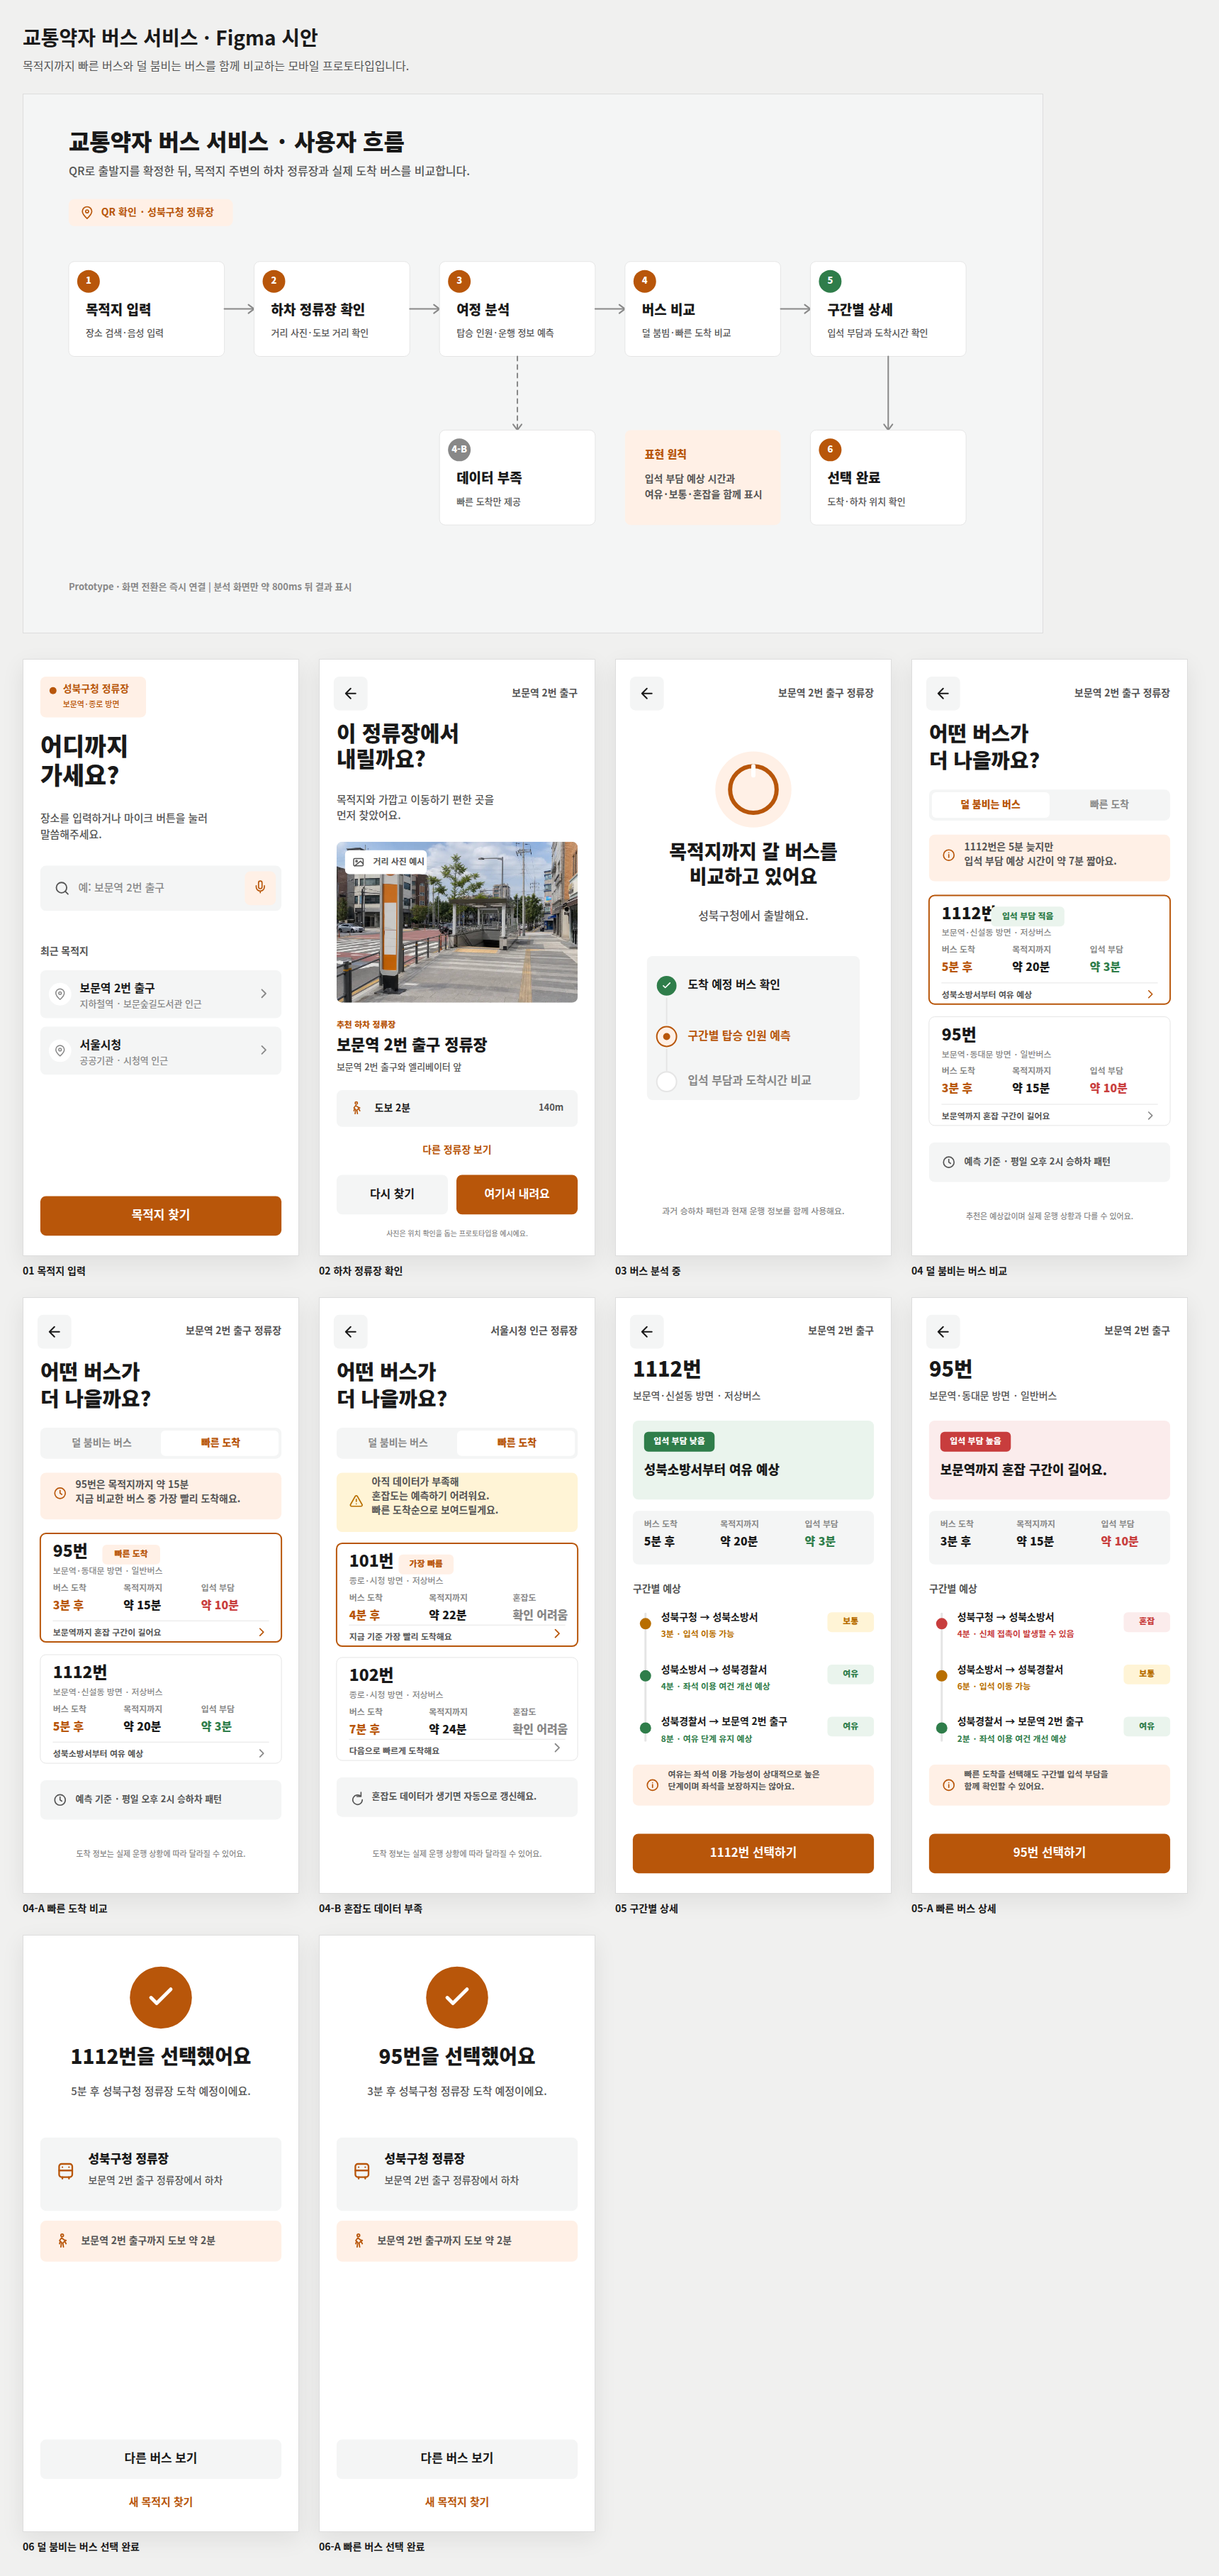
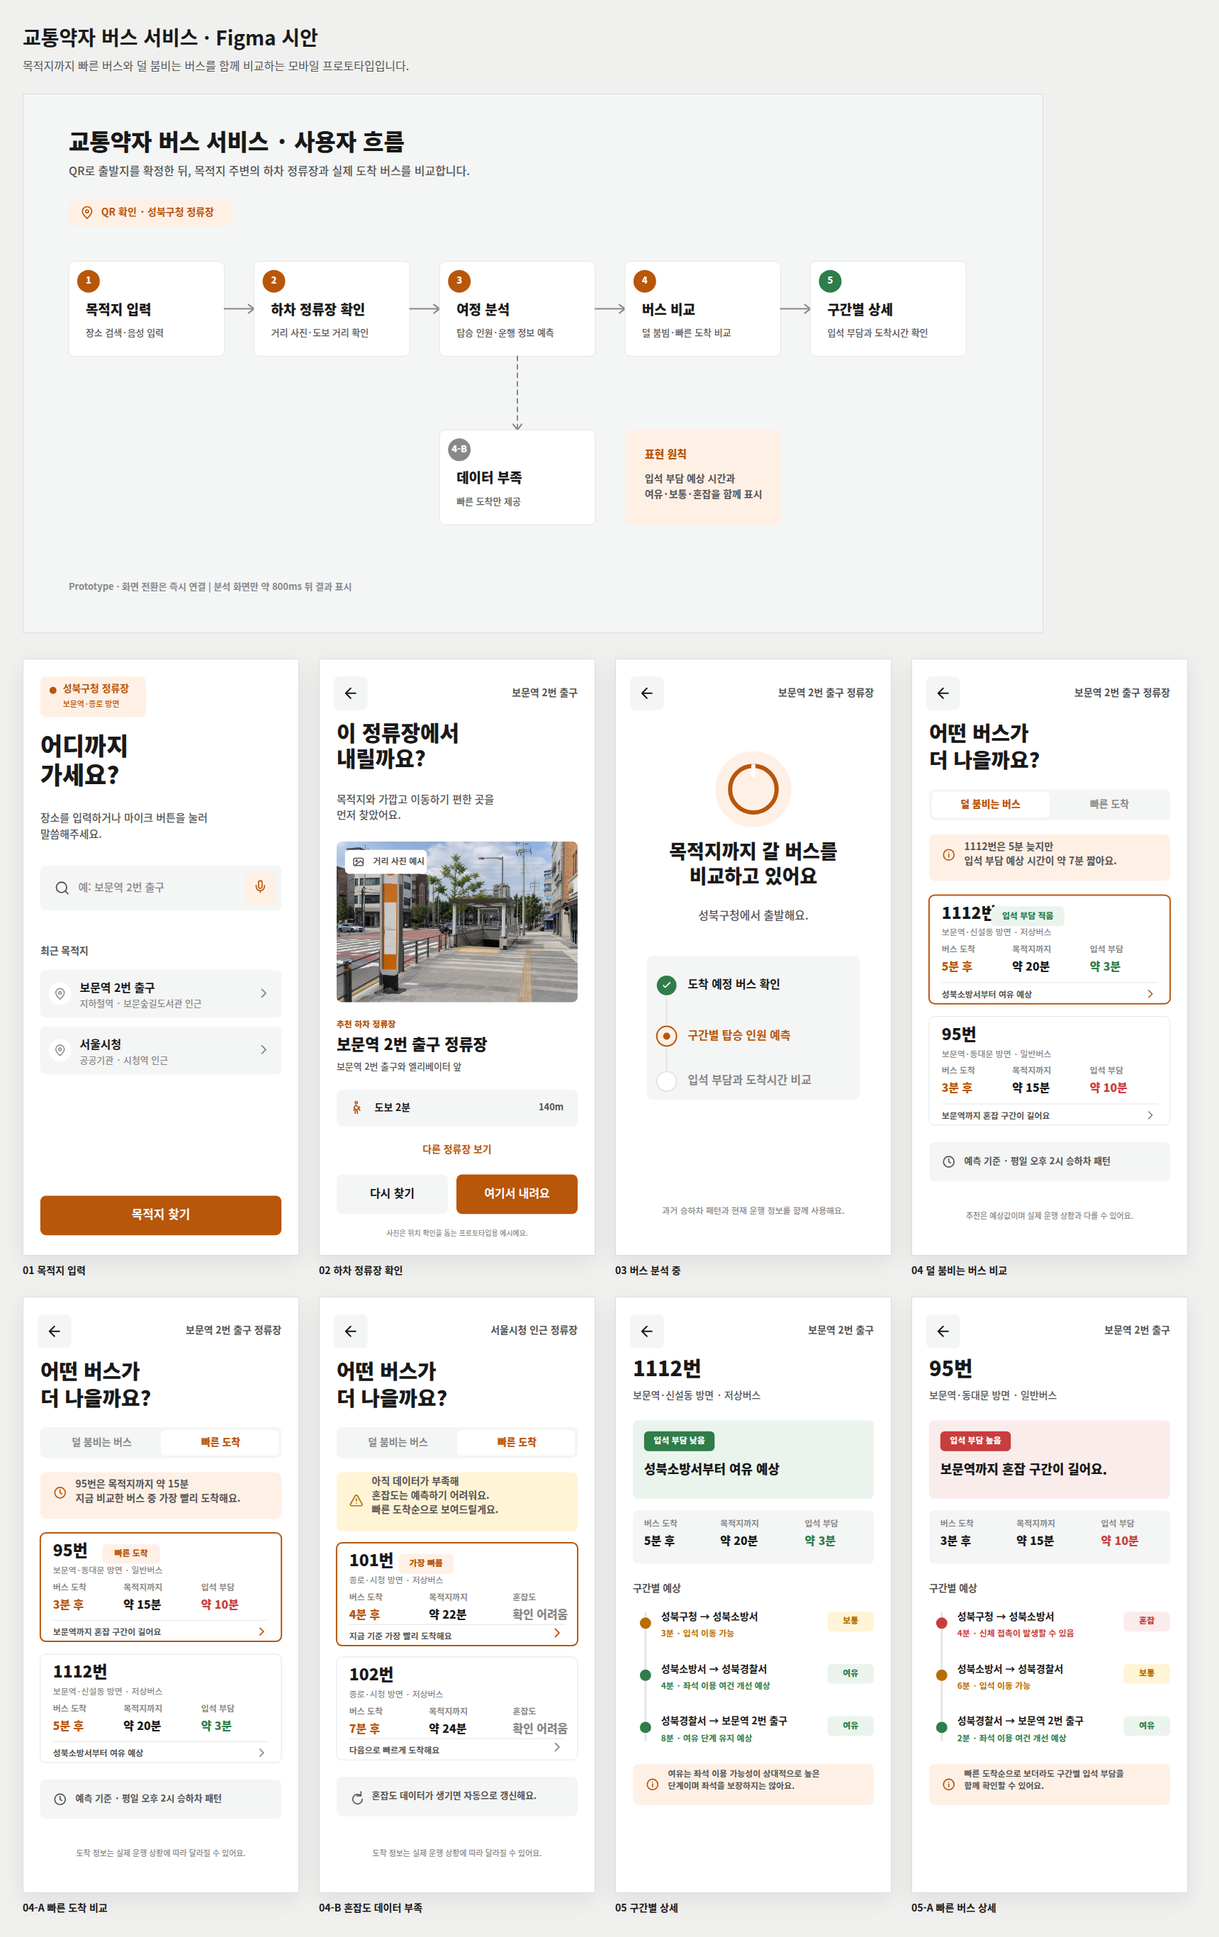
fix: remove redundant bus confirmation step

diff --git a/src/App.jsx b/src/App.jsx
@@ -2,7 +2,6 @@ import { useEffect, useMemo, useRef, useState } from "react";
 import {
   AlertTriangle,
   ArrowLeft,
-  BusFront,
   Check,
   ChevronRight,
   Circle,
@@ -468,7 +467,7 @@ function CompareScreen({ destination, selectedCandidate, mode, onModeChange, onB
   );
 }
 
-function DetailScreen({ currentStop, destination, selectedCandidate, route, onBack, onSelect }) {
+function DetailScreen({ destination, selectedCandidate, route, onBack }) {
   const predictionAvailable = destination.hasPrediction && route.segments;
   const bannerTone = predictionAvailable ? route.tone : "fast";
   const total = getTotalMinutes(route);
@@ -519,34 +518,6 @@ function DetailScreen({ currentStop, destination, selectedCandidate, route, onBa
         </InfoBand>
       )}
 
-      <div className="screen-bottom detail-bottom">
-        <button className="primary-button" type="button" onClick={onSelect}>{route.routeNumber} 선택하기</button>
-        <p className="fine-print">하차 정류장 · {selectedCandidate.stopName}</p>
-      </div>
-    </main>
-  );
-}
-
-function SelectedScreen({ currentStop, destination, selectedCandidate, route, onChangeBus, onNewDestination }) {
-  return (
-    <main className="screen screen--selected" aria-labelledby="selected-title">
-      <div className="selected-icon"><Check aria-hidden="true" /></div>
-      <section>
-        <h1 id="selected-title">{route.routeNumber}을 선택했어요</h1>
-        <p>{route.arrivalMinutes}분 후 {currentStop.stopName} 도착 예정이에요.</p>
-      </section>
-      <div className="selected-route">
-        <BusFront aria-hidden="true" />
-        <div><strong>{currentStop.stopName}</strong><span>{selectedCandidate.stopName}에서 하차</span></div>
-      </div>
-      <div className="selected-walk">
-        <Footprints aria-hidden="true" />
-        <span><strong>{destination.displayName}</strong>까지 도보 약 {selectedCandidate.walkMinutes}분</span>
-      </div>
-      <div className="screen-bottom selected-actions">
-        <button className="secondary-button secondary-button--full" type="button" onClick={onChangeBus}>다른 버스 보기</button>
-        <button className="text-button" type="button" onClick={onNewDestination}>새 목적지 찾기</button>
-      </div>
     </main>
   );
 }
@@ -663,14 +634,6 @@ export default function App() {
     setScreen("alighting");
   };
 
-  const resetJourney = () => {
-    setDestination(null);
-    setSelectedCandidateId(null);
-    setSelectedTripId(null);
-    setCompareMode("comfort");
-    setScreen("destination");
-  };
-
   if (screen === "loading" || screen === "error") {
     return (
       <div className="app-shell">
@@ -717,22 +680,10 @@ export default function App() {
         )}
         {screen === "detail" && currentStop && destination && selectedCandidate && selectedRoute && (
           <DetailScreen
-            currentStop={currentStop}
             destination={destination}
             selectedCandidate={selectedCandidate}
             route={selectedRoute}
             onBack={() => setScreen("compare")}
-            onSelect={() => setScreen("selected")}
-          />
-        )}
-        {screen === "selected" && currentStop && destination && selectedCandidate && selectedRoute && (
-          <SelectedScreen
-            currentStop={currentStop}
-            destination={destination}
-            selectedCandidate={selectedCandidate}
-            route={selectedRoute}
-            onChangeBus={() => setScreen("compare")}
-            onNewDestination={resetJourney}
           />
         )}
       </div>

diff --git a/src/styles.css b/src/styles.css
@@ -178,8 +178,7 @@ input:focus-visible {
 }
 
 .screen-heading h1,
-.analysis-heading h1,
-.screen--selected h1 {
+.analysis-heading h1 {
   margin: 0;
   font-size: 34px;
   line-height: 1.2;
@@ -192,8 +191,7 @@ input:focus-visible {
 }
 
 .screen-heading p,
-.analysis-heading p,
-.screen--selected section > p {
+.analysis-heading p {
   margin: 18px 0 0;
   color: #555555;
   font-size: 16px;
@@ -343,8 +341,7 @@ input:focus-visible {
   padding-top: 28px;
 }
 
-.destination-bottom,
-.selected-actions {
+.destination-bottom {
   display: grid;
   gap: 10px;
 }
@@ -1050,82 +1047,6 @@ input:focus-visible {
   margin-top: 18px;
 }
 
-.detail-bottom {
-  padding-top: 22px;
-}
-
-.screen--selected {
-  align-items: center;
-  padding-top: max(58px, env(safe-area-inset-top, 0px));
-  text-align: center;
-}
-
-.selected-icon {
-  width: 88px;
-  height: 88px;
-  border-radius: 50%;
-  display: flex;
-  align-items: center;
-  justify-content: center;
-  color: #ffffff;
-  background: #b8560a;
-}
-
-.selected-icon svg {
-  width: 46px;
-  height: 46px;
-}
-
-.screen--selected section {
-  margin-top: 30px;
-}
-
-.screen--selected h1 {
-  font-size: 28px;
-}
-
-.selected-route,
-.selected-walk {
-  width: 100%;
-  border-radius: 8px;
-  display: flex;
-  align-items: center;
-  gap: 16px;
-  text-align: left;
-}
-
-.selected-route {
-  margin-top: 36px;
-  padding: 18px;
-  background: #f2f3f3;
-}
-
-.selected-walk {
-  margin-top: 10px;
-  padding: 14px 18px;
-  color: #555555;
-  background: #fff0e6;
-  font-size: 14px;
-}
-
-.selected-route > svg,
-.selected-walk > svg {
-  width: 28px;
-  flex: 0 0 28px;
-  color: #b8560a;
-}
-
-.selected-route div {
-  min-width: 0;
-  display: grid;
-  gap: 5px;
-}
-
-.selected-route span {
-  color: #666666;
-  font-size: 13px;
-}
-
 @media (max-width: 460px) {
   .phone-frame {
     max-width: none;
@@ -1141,10 +1062,6 @@ input:focus-visible {
   .screen-heading h1,
   .analysis-heading h1 {
     font-size: 30px;
-  }
-
-  .screen--selected {
-    padding-top: max(46px, env(safe-area-inset-top, 0px));
   }
 
   .bus-option {
@@ -1173,8 +1090,7 @@ input:focus-visible {
   }
 
   .screen-heading h1,
-  .analysis-heading h1,
-  .screen--selected h1 {
+  .analysis-heading h1 {
     font-size: 27px;
   }
 

diff --git a/design/figma-import/index.html b/design/figma-import/index.html
@@ -52,14 +52,6 @@
   <figure>
     <img src="./05-detail-fast.svg" alt="05-A 빠른 버스 상세">
     <figcaption>05-A 빠른 버스 상세</figcaption>
-  </figure>
-  <figure>
-    <img src="./06-selected-comfort.svg" alt="06 덜 붐비는 버스 선택 완료">
-    <figcaption>06 덜 붐비는 버스 선택 완료</figcaption>
-  </figure>
-  <figure>
-    <img src="./06-selected-fast.svg" alt="06-A 빠른 버스 선택 완료">
-    <figcaption>06-A 빠른 버스 선택 완료</figcaption>
   </figure></main>
 </body>
 </html>

diff --git a/design/figma-import/README.md b/design/figma-import/README.md
@@ -15,8 +15,6 @@
 | `04-compare-unavailable.svg` | 혼잡도 데이터가 부족한 경우 |
 | `05-detail.svg` | 1112번의 구간별 예상 |
 | `05-detail-fast.svg` | 95번의 구간별 예상 |
-| `06-selected-comfort.svg` | 1112번 선택 완료 |
-| `06-selected-fast.svg` | 95번 선택 완료 |
 
 `index.html`은 모든 화면을 한 페이지에서 확인하는 용도입니다. `contact-sheet.png`는 회의 자료나 Discord 공유에 쓰기 편하도록 한 장으로 정리한 이미지입니다.
 
@@ -41,21 +39,16 @@
 04-compare
   빠른 도착 → 04-compare-fast
   1112번 → 05-detail
-05-detail
-  1112번 선택하기 → 06-selected-comfort
+05-detail → 상세 확인 후 흐름 종료
 
 비교와 예외
 04-compare-fast
   덜 붐비는 버스 → 04-compare
   95번 → 05-detail-fast
-05-detail-fast
-  95번 선택하기 → 06-selected-fast
+05-detail-fast → 상세 확인 후 흐름 종료
 04-compare-unavailable
   혼잡도 비교는 비활성화
-  101번 → 빠른 도착 상세 또는 선택 완료
-06-selected-*
-  다른 버스 보기 → 직전 비교 화면
-  새 목적지 찾기 → 01-destination
+  101번 → 빠른 도착 상세
 ```
 
 화면 전환은 `Instant`로 두고 분석 화면만 약 800ms 뒤 비교 화면으로 넘어가게 설정합니다. 고령 사용자가 내용을 읽는 중 화면이 흐려지지 않도록 불투명도 애니메이션은 사용하지 않습니다.

diff --git a/docs/API_CONTRACT_DRAFT.md b/docs/API_CONTRACT_DRAFT.md
@@ -10,7 +10,6 @@
 | 목적지 검색 | `GET /api/v1/destinations?originStopId={id}&query={text}` | 장소와 주변 하차 정류장 후보, 추가 예정 |
 | 하차 정류장 확정 | `POST /api/v1/journeys/predictions` | 도착 버스별 이동시간과 구간별 입석 부담 |
 | 다시 분석 | 위 예측 API 재호출 | 최신 `generatedAt` 결과 |
-| 버스 최종 선택 | 요청 없음 | 예약이나 알림 기능이 생길 때 별도 논의 |
 
 현재 프론트는 `context` 응답에서 정류장 정보와 초기 목적지 후보를 함께 받습니다. 첫 연동 때는 이 구조를 그대로 제공해야 합니다. 목적지 검색 API가 추가되면 입력 검색 결과만 별도 요청으로 바꾸고, 목적지 객체와 하차 후보의 구조는 그대로 유지합니다.
 
@@ -22,7 +21,7 @@
 - `routeId`: 1112번과 같은 노선 자체를 식별합니다.
 - `tripId`: 현재 도착 예정인 특정 운행 버스를 식별합니다.
 
-같은 노선의 버스가 연달아 올 수 있으므로 비교와 선택에는 `tripId`가 필요합니다. 모델이 예측할 구간은 `originStopId`부터 `destinationStopId`까지입니다.
+같은 노선의 버스가 연달아 올 수 있으므로 비교 결과와 상세 화면을 연결하려면 `tripId`가 필요합니다. 모델이 예측할 구간은 `originStopId`부터 `destinationStopId`까지입니다.
 
 ## 1. 정류장 진입
 

diff --git a/README.md b/README.md
@@ -12,7 +12,7 @@
 2. 목적지나 주변 장소를 글자 또는 음성으로 입력합니다.
 3. 목적지 주변에서 이동하기 편한 하차 정류장을 거리 사진과 도보 거리로 확인합니다.
 4. 현재 도착 예정 버스별 이동시간과 구간별 입석 부담을 비교합니다.
-5. 버스 상세에서 `여유·보통·혼잡` 구간을 확인한 뒤 한 대를 선택합니다.
+5. 버스 상세에서 `여유·보통·혼잡` 구간과 예상 도착시간을 확인합니다.
 
 ## 실행 방법
 
@@ -100,7 +100,7 @@ QR로 처음 들어왔을 때 필요한 데이터를 한 번에 담습니다.
 | `routeId` | 노선 자체의 ID | `1112` |
 | `tripId` | 지금 도착할 특정 운행 버스 ID | `trip-1112-1358` |
 
-같은 노선 번호라도 도착 시각과 차량 종류가 다른 운행이 올 수 있으므로 화면에서 버스를 고를 때는 `routeId`가 아니라 `tripId`를 사용합니다.
+같은 노선 번호라도 도착 시각과 차량 종류가 다른 운행이 올 수 있으므로 비교 결과와 상세 화면을 연결할 때는 `routeId`가 아니라 `tripId`를 사용합니다.
 
 ### 혼잡도 값
 
